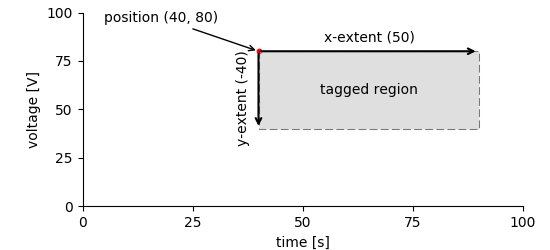
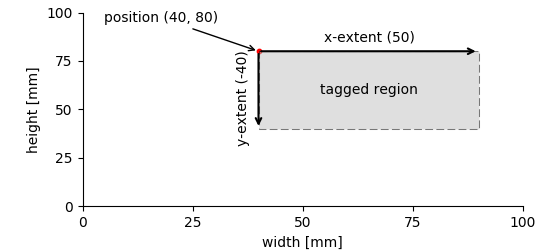
[docs] 2d tagging

Changed region(s): [[0.0309, 0.252, 0.0927, 0.616], [0.4636, 0.952, 0.6491, 1.0]]

diff --git a/docs/code/2d_tag.py b/docs/code/2d_tag.py
@@ -15,8 +15,8 @@ ax.set_xlim([0., 100.])
 ax.set_ylim([0., 100.])
 ax.set_xticks(np.arange(0, 101, 25))
 ax.set_yticks(np.arange(0, 101, 25))
-ax.set_xlabel("time [s]")
-ax.set_ylabel("voltage [V]")
+ax.set_xlabel("width [mm]")
+ax.set_ylabel("height [mm]")
 
 rect = patches.Rectangle((x_start, y_start), x_extent,y_extent, alpha=0.5, facecolor="silver", edgecolor='k', lw=0.75, ls='--' )
 ax.add_patch(rect)

diff --git a/docs/tagging.md b/docs/tagging.md
@@ -1,8 +1,19 @@
-# Tagging Points and regions in recorded data
+# Tagging points and regionsq
 
 The *DataArray*s store data, but this is not all that is needed to
-store scientific data. Suppose, we are recording the response of a
-system to a certain stimulus.
+store scientific data. We may want to highlight points or regions in
+the data and link it to further information.
+
+This is done using the *Tag* and the *MultiTag* for tagging single or
+mutliple points or regions, respectively.
+
+
+## Single points/regions
+
+### Tagging in 1D
+
+Suppose, we are recording the response of a system to a certain
+stimulus.
 
 ![simple_tag_plot](./images/tag1.png "a system's response to a stimulus")
 
@@ -54,7 +65,7 @@ int main() {
 a segment of the referenced data.
 
 
-### Handling of units
+#### Handling of units
 In the above example we do not explicitly specify a unit for position
 and extent. They are implicitly assumed to be given in the same unit
 as the *DataArray*. It is, however, possible to specify a unit (or
@@ -70,10 +81,49 @@ units and compounds of these.
     stim_tag.units({"ms"});
 ```
 
-The same principle shown here for 1-D data extends to two or more
+### Tagging in 2D
+
+The same principle shown above for 1-D data extends to two or more
 dimensions. The only difference is that one has to provide vectors of
 positions/extents that match in length to the number of dimensions of
 the referenced *DataArray*.
 
+![2d_tag_plot](./images/2d_tag.png "tagging in 2-D")
+
+```c++
+#include <nix.hpp>
+#include <nix/hydra/multiArray.hpp>
+
+int main() {
+    // create 2D dummy data
+    typedef boost::multi_array<double, 2> array_type;
+    typedef array_type::index index;
+    array_type data(boost::extents[100][100]);
+
+    int values = 0;
+    for(index i = 0; i < 100; ++i)
+        for(index j = 0; j < 100; ++j)
+            data[i][j] = values++;
+
+    // create a new file, enable compression
+    nix::File f = nix::File::open("2_d_tag.nix", nix::FileMode::Overwrite, "hdf5", nix::Compression::DeflateNormal);
+    nix::Block b = f.createBlock("demo block", "nix.demo");
+
+    nix::DataArray array = b.createDataArray("2D data", "nix.sampled.2d", data);
+    SampledDimension dim = array.appendSampledDimension(1.);
+    dim.label("width");
+    dim.unit("mm");
+    dim = array.appendSampledDimension(1.);
+    dim.label("height");
+    dim.unit("mm");
+
+    nix::Tag tag = b.createTag("tagged region", "nix.region", {40., 80.});
+    tag.extent({50., -40.});
+    tag.addReference(array);
+    return 0;
+}
+```
+
+## Multiple points/regions
 
 [home](./index.md) -- [back](./getting_started.md)
